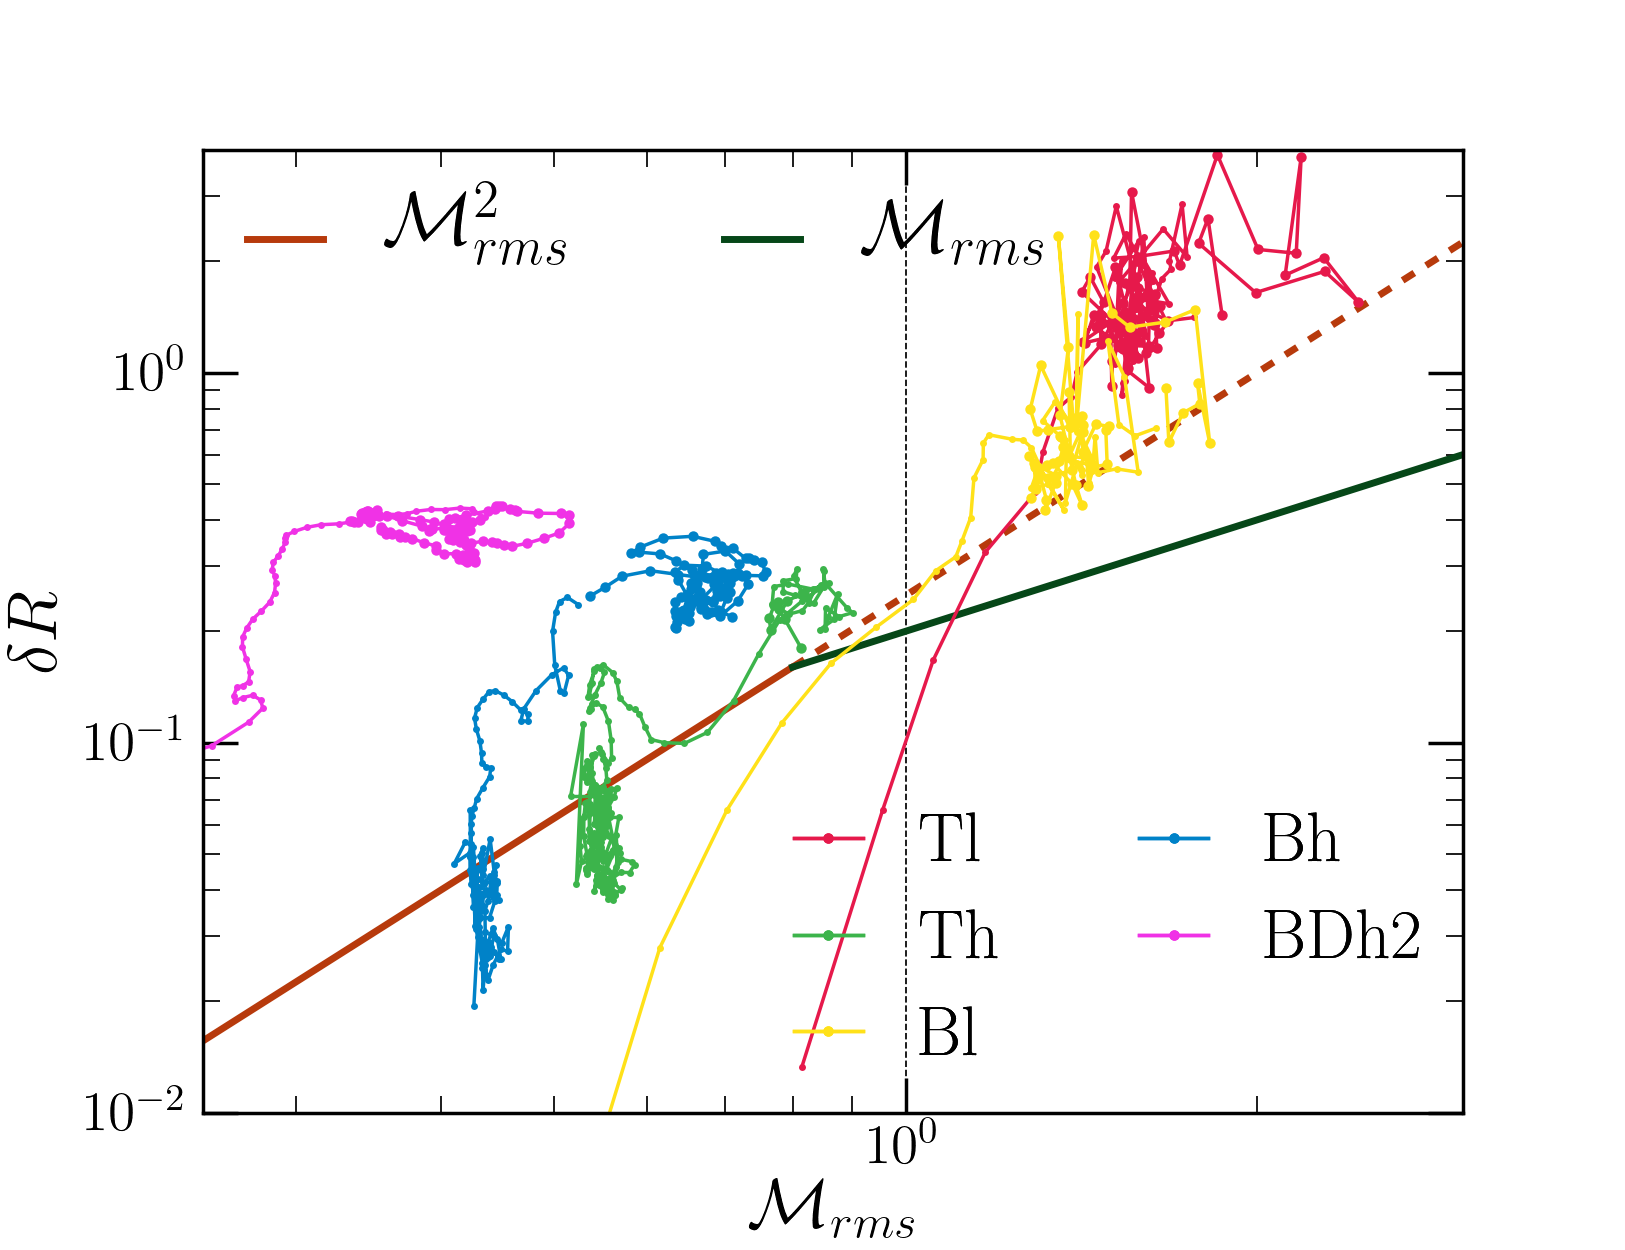
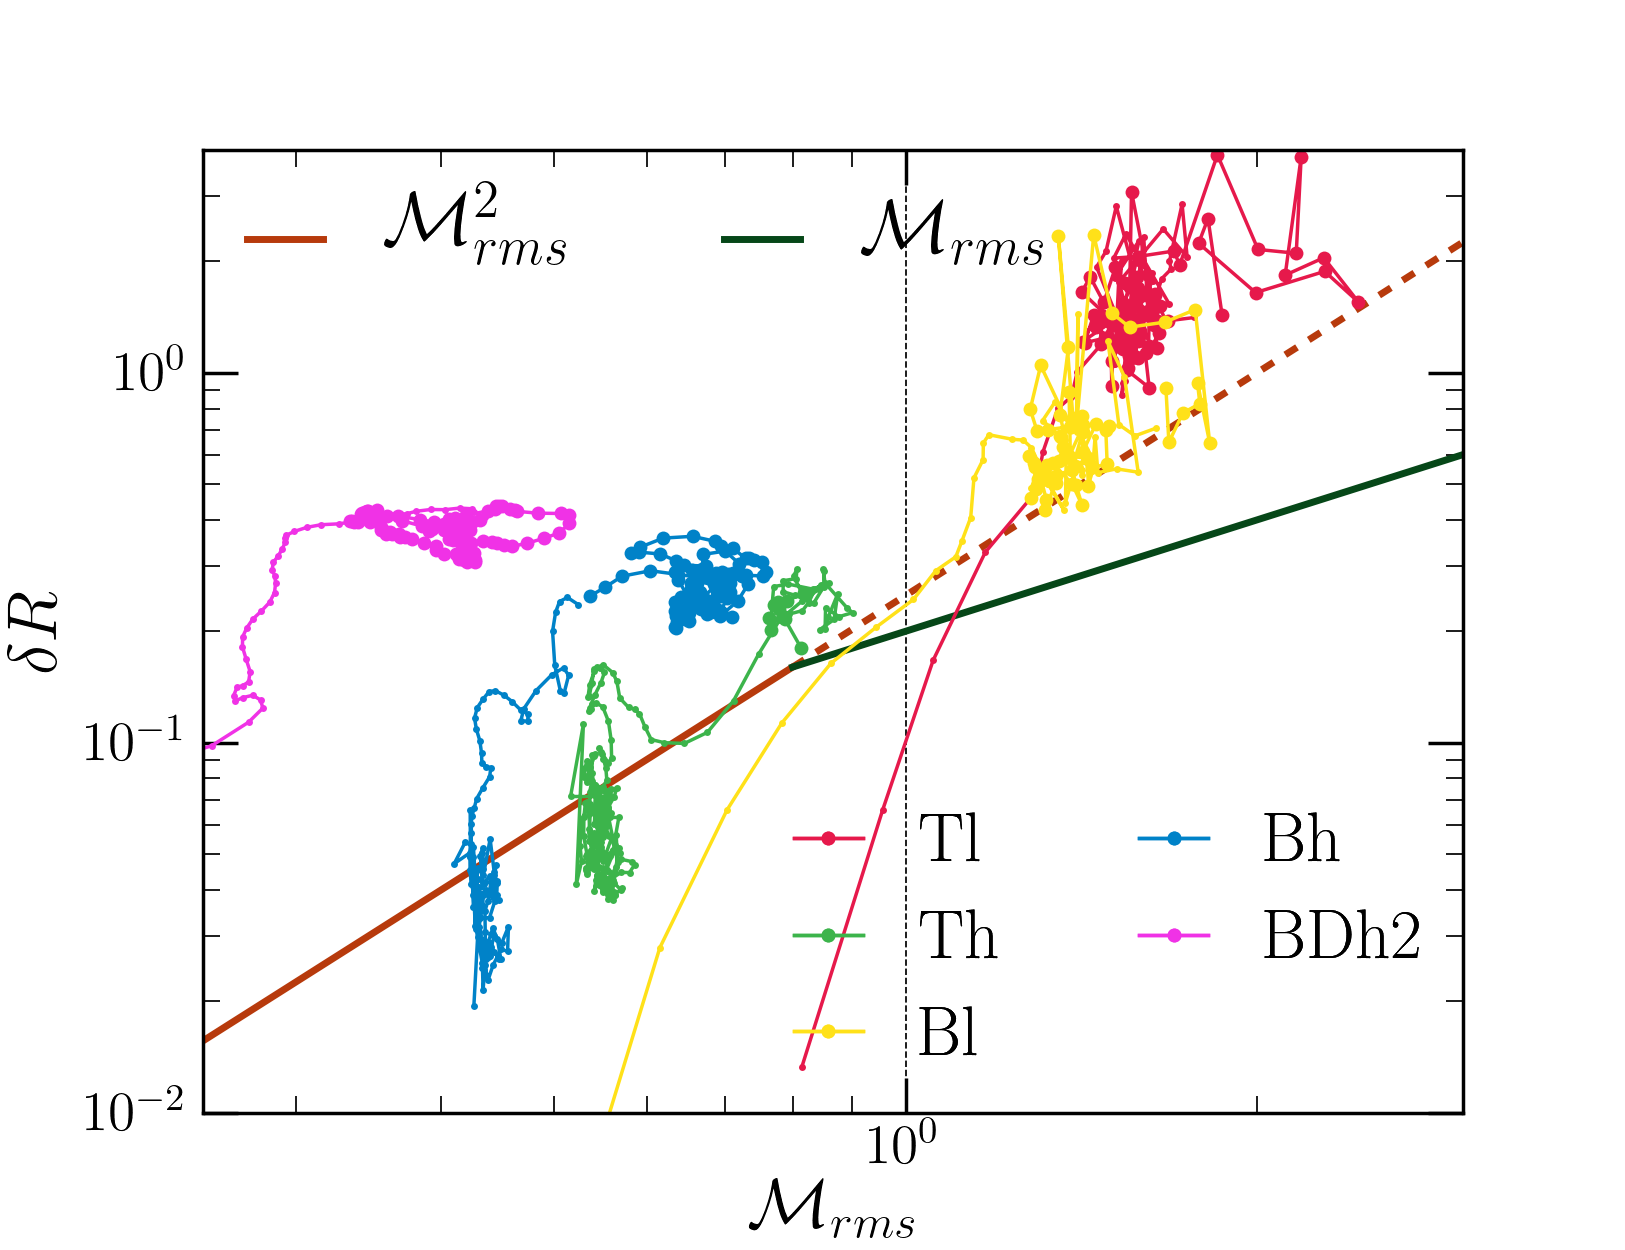
edited plots

diff --git a/surface_brightness/sb_mach_all.py b/surface_brightness/sb_mach_all.py
@@ -80,10 +80,10 @@ for i1 in xrange(0, start.size):
 	#print del_R.shape
 	if(i1!=4):
 		perturb1[i1], =ax.plot(data[:,2][1:int(start_time[i1]/step_size)], del_R[1:int(start_time[i1]/step_size)], label=labels[i1], color=colors[i1], marker=".", markeredgecolor='none', markersize=4., linewidth=1.)
-		perturb2[i1], =ax.plot(data[:,2][int(start_time[i1]/step_size):del_R.size], del_R[int(start_time[i1]/step_size):], label=labels[i1], color=colors[i1], marker=".", markeredgecolor='none', markersize=6., linewidth=1.)
+		perturb2[i1], =ax.plot(data[:,2][int(start_time[i1]/step_size):del_R.size], del_R[int(start_time[i1]/step_size):], label=labels[i1], color=colors[i1], marker=".", markeredgecolor='none', markersize=8., linewidth=1.)
 	else:
 		perturb1[i1], =ax.plot(data[:,2][1:int(start_time[i1]/step_size)], del_R[1:int(start_time[i1]/step_size)], label=labels[i1], color=colors[i1+3], marker=".", markeredgecolor='none', markersize=4., linewidth=1.)
-		perturb2[i1], =ax.plot(data[:,2][int(start_time[i1]/step_size):del_R.size], del_R[int(start_time[i1]/step_size):], label=labels[i1], color=colors[i1+3], marker=".", markeredgecolor='none', markersize=6., linewidth=1.)
+		perturb2[i1], =ax.plot(data[:,2][int(start_time[i1]/step_size):del_R.size], del_R[int(start_time[i1]/step_size):], label=labels[i1], color=colors[i1+3], marker=".", markeredgecolor='none', markersize=8., linewidth=1.)
 
 
 perturb2_leg=ax.legend(handles=perturb2, loc='lower right', bbox_to_anchor=(1.02, -0.02), ncol=2, fontsize=20)
